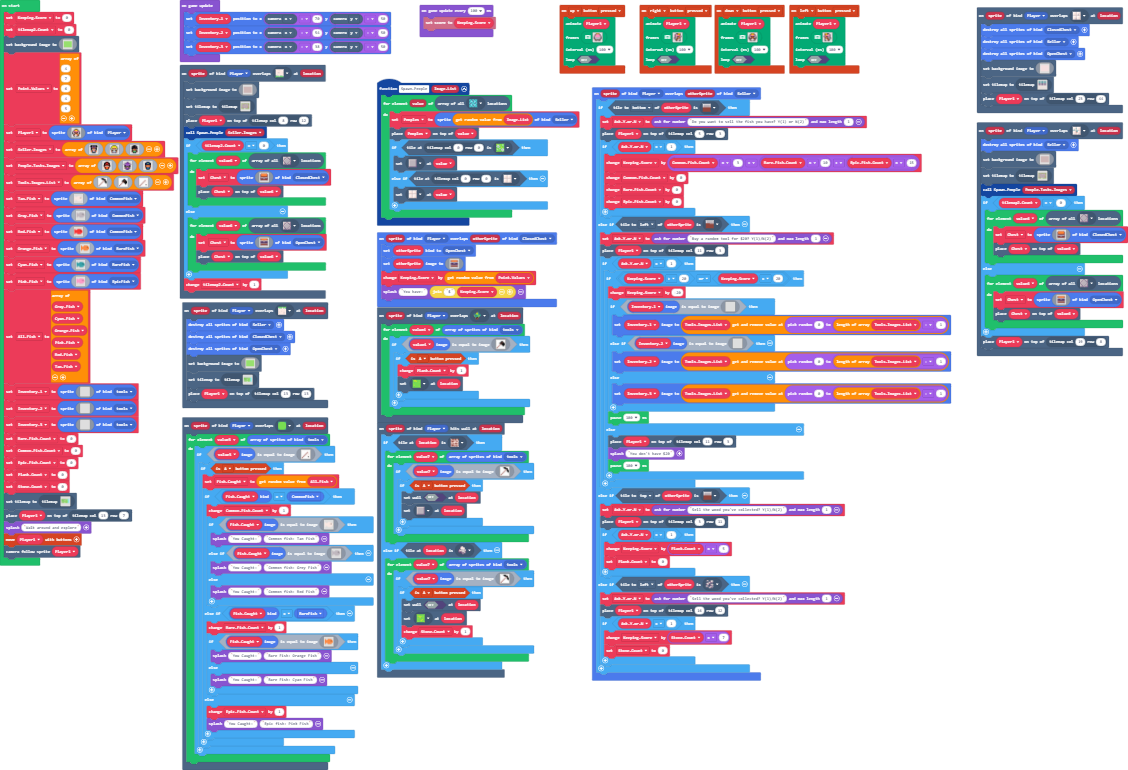
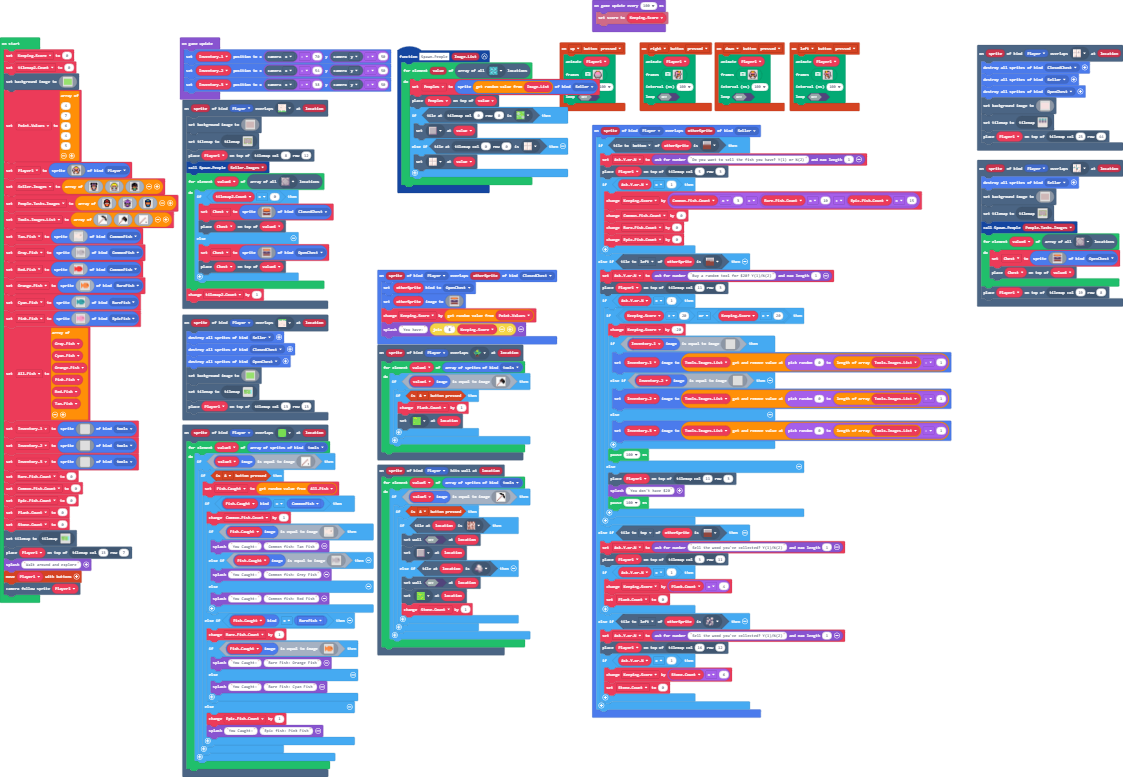
I made some of the if statements shorter so that they only used one loop instead of two

diff --git a/main.ts b/main.ts
@@ -85,39 +85,23 @@ controller.up.onEvent(ControllerButtonEvent.Pressed, function () {
     )
 })
 scene.onHitWall(SpriteKind.Player, function (sprite, location) {
-    if (tiles.tileAtLocationEquals(location, assets.tile`myTile2`)) {
-        for (let value7 of sprites.allOfKind(SpriteKind.tools)) {
-            if (value7.image.equals(img`
-                1 1 1 f f f 1 1 1 
-                1 1 1 1 f f f f 1 
-                1 1 1 1 1 1 e f 1 
-                1 1 1 1 1 e 1 f f 
-                1 1 1 1 e 1 1 f f 
-                1 1 1 e 1 1 1 1 f 
-                1 1 e 1 1 1 1 1 1 
-                1 e 1 1 1 1 1 1 1 
-                e 1 1 1 1 1 1 1 1 
-                `)) {
-                if (controller.A.isPressed()) {
+    for (let value5 of sprites.allOfKind(SpriteKind.tools)) {
+        if (value5.image.equals(img`
+            1 1 1 f f f 1 1 1 
+            1 1 1 1 f f f f 1 
+            1 1 1 1 1 1 e f 1 
+            1 1 1 1 1 e 1 f f 
+            1 1 1 1 e 1 1 f f 
+            1 1 1 e 1 1 1 1 f 
+            1 1 e 1 1 1 1 1 1 
+            1 e 1 1 1 1 1 1 1 
+            e 1 1 1 1 1 1 1 1 
+            `)) {
+            if (controller.A.isPressed()) {
+                if (tiles.tileAtLocationEquals(location, assets.tile`myTile2`)) {
                     tiles.setWallAt(location, false)
                     tiles.setTileAt(location, sprites.dungeon.floorDark2)
-                }
-            }
-        }
-    } else if (tiles.tileAtLocationEquals(location, sprites.castle.rock0)) {
-        for (let value7 of sprites.allOfKind(SpriteKind.tools)) {
-            if (value7.image.equals(img`
-                1 1 1 f f f 1 1 1 
-                1 1 1 1 f f f f 1 
-                1 1 1 1 1 1 e f 1 
-                1 1 1 1 1 e 1 f f 
-                1 1 1 1 e 1 1 f f 
-                1 1 1 e 1 1 1 1 f 
-                1 1 e 1 1 1 1 1 1 
-                1 e 1 1 1 1 1 1 1 
-                e 1 1 1 1 1 1 1 1 
-                `)) {
-                if (controller.A.isPressed()) {
+                } else if (tiles.tileAtLocationEquals(location, sprites.castle.rock0)) {
                     tiles.setWallAt(location, false)
                     tiles.setTileAt(location, sprites.castle.tileGrass3)
                     StoneCount += 1
@@ -252,50 +236,26 @@ scene.onOverlapTile(SpriteKind.Player, sprites.dungeon.floorLightMoss, function 
         `)
     tiles.setCurrentTilemap(tilemap`level3`)
     SpawnPeople(PeopleTasksImages)
-    if (tilemap2Count == 0) {
-        for (let value6 of tiles.getTilesByType(sprites.dungeon.floorDarkDiamond)) {
-            Chest = sprites.create(img`
-                . . b b b b b b b b b b b b . . 
-                . b e 4 4 4 4 4 4 4 4 4 4 e b . 
-                b e 4 4 4 4 4 4 4 4 4 4 4 4 e b 
-                b e 4 4 4 4 4 4 4 4 4 4 4 4 e b 
-                b e 4 4 4 4 4 4 4 4 4 4 4 4 e b 
-                b e e 4 4 4 4 4 4 4 4 4 4 e e b 
-                b e e e e e e e e e e e e e e b 
-                b e e e e e e e e e e e e e e b 
-                b b b b b b b d d b b b b b b b 
-                c b b b b b b c c b b b b b b c 
-                c c c c c c b c c b c c c c c c 
-                b e e e e e c b b c e e e e e b 
-                b e e e e e e e e e e e e e e b 
-                b c e e e e e e e e e e e e c b 
-                b b b b b b b b b b b b b b b b 
-                . b b . . . . . . . . . . b b . 
-                `, SpriteKind.ClosedChest)
-            tiles.placeOnTile(Chest, value6)
-        }
-    } else {
-        for (let value6 of tiles.getTilesByType(sprites.dungeon.floorDarkDiamond)) {
-            Chest = sprites.create(img`
-                . b b b b b b b b b b b b b b . 
-                b e 4 4 4 4 4 4 4 4 4 4 4 4 4 b 
-                b e 4 4 4 4 4 4 4 4 4 4 4 4 e b 
-                b e e 4 4 4 4 4 4 4 4 4 4 e e b 
-                b b b b b b b d d b b b b b b b 
-                . b b b b b b c c b b b b b b . 
-                b c c c c c b c c b c c c c c b 
-                b c c c c c c b b c c c c c c b 
-                b c c c c c c c c c c c c c c b 
-                b c c c c c c c c c c c c c c b 
-                b b b b b b b b b b b b b b b b 
-                b e e e e e e e e e e e e e e b 
-                b e e e e e e e e e e e e e e b 
-                b c e e e e e e e e e e e e c b 
-                b b b b b b b b b b b b b b b b 
-                . b b . . . . . . . . . . b b . 
-                `, SpriteKind.OpenChest)
-            tiles.placeOnTile(Chest, value6)
-        }
+    for (let value6 of tiles.getTilesByType(sprites.dungeon.floorDarkDiamond)) {
+        Chest = sprites.create(img`
+            . b b b b b b b b b b b b b b . 
+            b e 4 4 4 4 4 4 4 4 4 4 4 4 4 b 
+            b e 4 4 4 4 4 4 4 4 4 4 4 4 e b 
+            b e e 4 4 4 4 4 4 4 4 4 4 e e b 
+            b b b b b b b d d b b b b b b b 
+            . b b b b b b c c b b b b b b . 
+            b c c c c c b c c b c c c c c b 
+            b c c c c c c b b c c c c c c b 
+            b c c c c c c c c c c c c c c b 
+            b c c c c c c c c c c c c c c b 
+            b b b b b b b b b b b b b b b b 
+            b e e e e e e e e e e e e e e b 
+            b e e e e e e e e e e e e e e b 
+            b c e e e e e e e e e e e e c b 
+            b b b b b b b b b b b b b b b b 
+            . b b . . . . . . . . . . b b . 
+            `, SpriteKind.OpenChest)
+        tiles.placeOnTile(Chest, value6)
     }
     tiles.placeOnTile(Player1, tiles.getTileLocation(19, 8))
 })
@@ -729,14 +689,14 @@ sprites.onOverlap(SpriteKind.Player, SpriteKind.Seller, function (sprite, otherS
         AskYorN = game.askForNumber("Sell the wood you've collected? Y(1)/N(2)", 1)
         tiles.placeOnTile(Player1, tiles.getTileLocation(3, 11))
         if (AskYorN == 1) {
-            KeepingScore += PlankCount * 5
+            KeepingScore += PlankCount * 4
             PlankCount = 0
         }
     } else if (otherSprite.tileKindAt(TileDirection.Left, sprites.castle.rock2)) {
         AskYorN = game.askForNumber("Sell the wood you've collected? Y(1)/N(2)", 1)
         tiles.placeOnTile(Player1, tiles.getTileLocation(16, 12))
         if (AskYorN == 1) {
-            KeepingScore += StoneCount * 7
+            KeepingScore += StoneCount * 6
             StoneCount = 0
         }
     }
@@ -1006,8 +966,8 @@ scene.onOverlapTile(SpriteKind.Player, sprites.castle.tilePath8, function (sprit
     tiles.setCurrentTilemap(tilemap`level3`)
     tiles.placeOnTile(Player1, tiles.getTileLocation(8, 12))
     SpawnPeople(SellerImages)
-    if (tilemap2Count == 0) {
-        for (let value6 of tiles.getTilesByType(sprites.dungeon.floorDarkDiamond)) {
+    for (let value6 of tiles.getTilesByType(sprites.dungeon.floorDarkDiamond)) {
+        if (tilemap2Count == 0) {
             Chest = sprites.create(img`
                 . . b b b b b b b b b b b b . . 
                 . b e 4 4 4 4 4 4 4 4 4 4 e b . 
@@ -1027,9 +987,7 @@ scene.onOverlapTile(SpriteKind.Player, sprites.castle.tilePath8, function (sprit
                 . b b . . . . . . . . . . b b . 
                 `, SpriteKind.ClosedChest)
             tiles.placeOnTile(Chest, value6)
-        }
-    } else {
-        for (let value6 of tiles.getTilesByType(sprites.dungeon.floorDarkDiamond)) {
+        } else {
             Chest = sprites.create(img`
                 . b b b b b b b b b b b b b b . 
                 b e 4 4 4 4 4 4 4 4 4 4 4 4 4 b 
